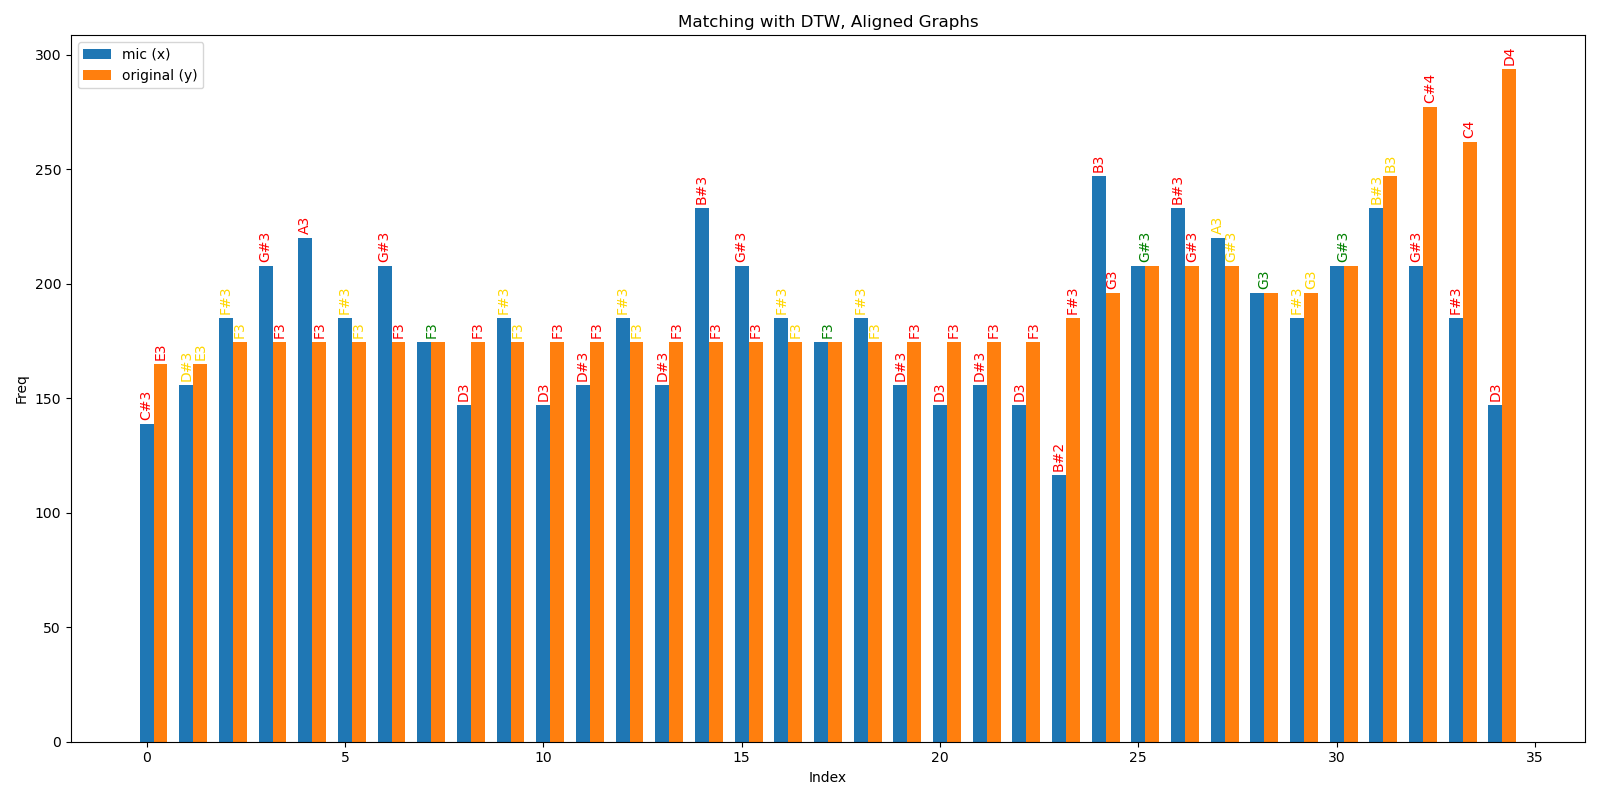
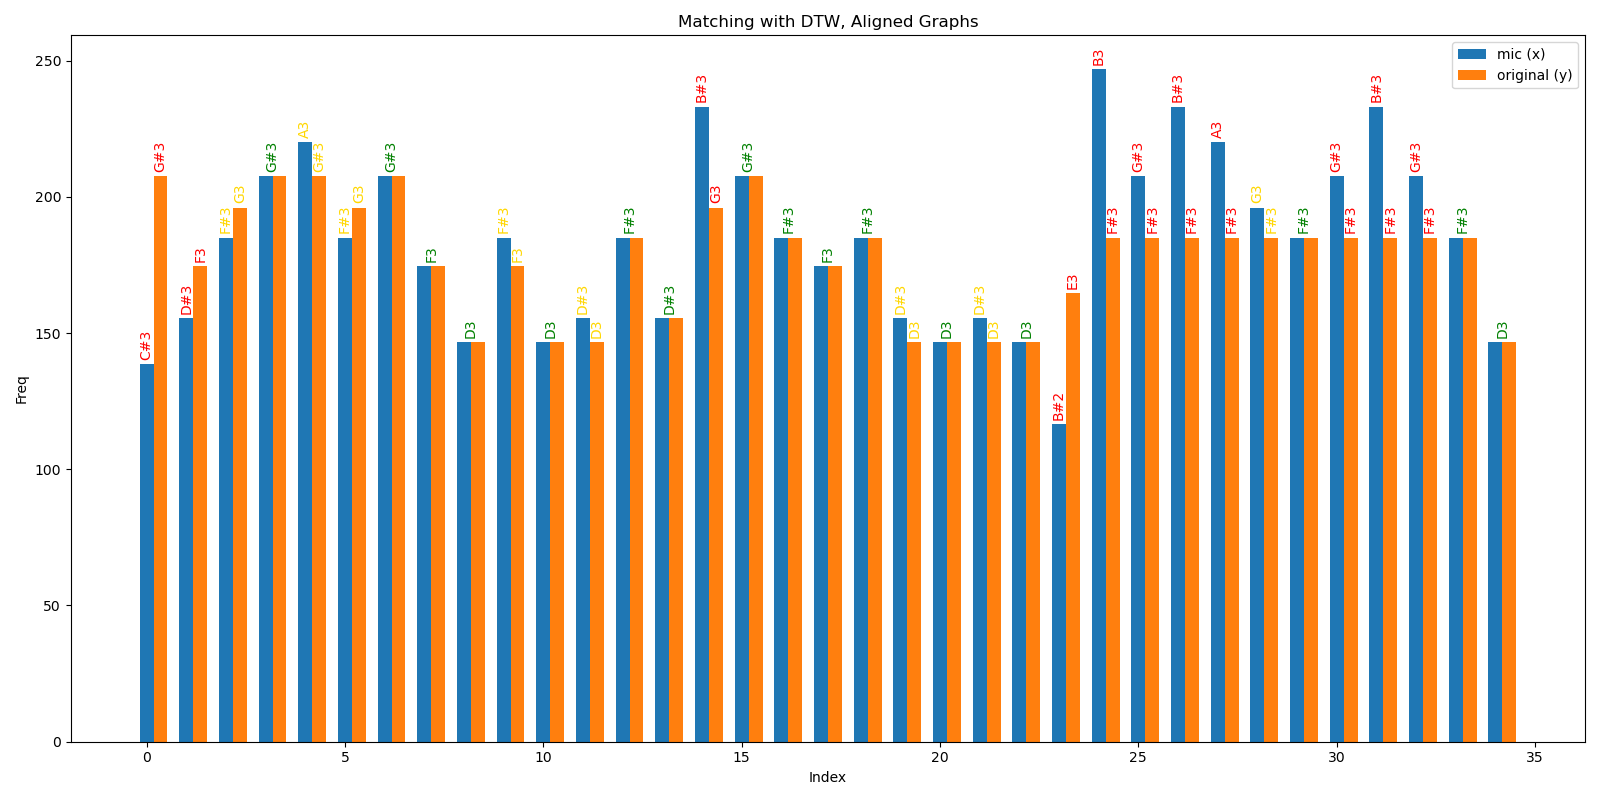
tried without success

diff --git a/compare.py b/compare.py
@@ -1,21 +1,21 @@
 import math
-from typing import List
 import numpy as np
+from fastdtw import fastdtw
 from matplotlib import pyplot as plt
 import tkinter as tk
 
 from filesAccess import *
 
-#import sklearn
-import tslearn
-from tslearn import *
-from tslearn import metrics
-#from sklearn.metrics import r2_score
-
-from tslearn.backend import instantiate_backend             #TODO Dont delete this!!
-from tslearn.backend.numpy_backend import  NumPyBackend     #TODO Dont delete this!!
-from sklearn.metrics.pairwise import euclidean_distances    #TODO Dont delete this!!
-from sklearn.metrics.pairwise import pairwise_distances     #TODO Dont delete this!!
+# #import sklearn
+# import tslearn
+# from tslearn import *
+# from tslearn import metrics
+# #from sklearn.metrics import r2_score
+#
+# from tslearn.backend import instantiate_backend             #TODO Dont delete this!!
+# from tslearn.backend.numpy_backend import  NumPyBackend     #TODO Dont delete this!!
+# from sklearn.metrics.pairwise import euclidean_distances    #TODO Dont delete this!!
+# from sklearn.metrics.pairwise import pairwise_distances     #TODO Dont delete this!!
 
 class dtwElementInfo:
     def __init__(self, x, y, xIndex, yIndex, xTime, yTime):
@@ -125,17 +125,6 @@ def are_neighbors(frequency1, frequency2):
     res2 = abs(frequency2 * math.pow(2, 1/12) - frequency1)
     return res1 < 1 or res2 < 1
 
-
-
-# # https://discord.com/channels/1183328278983999579/1184833831686111365/1186322859036000437
-# def fastDTWTest(x, y):
-#     # distance, path = fastdtw(x, y, dist=d.euclidean)
-#     distance, path = fastdtw(x, y, dist=d.cosine)
-#     print(f"Distance: {distance}")
-#     print(f"Path: {path}")
-#
-#     for (i, j) in path:
-#         print(f"{i}: {x[i]}, {j}: {y[j]}")
 
 
 # # https://discord.com/channels/1183328278983999579/1184833831686111365/1186323274964148295
@@ -344,12 +333,33 @@ def computeScore(micFreqs, origFreqs):
     return similarity
 
 
+
+# # # https://discord.com/channels/1183328278983999579/1184833831686111365/1186322859036000437
+# def fastDTWTest(x, y):
+#     # distance, path = fastdtw(x, y, dist=d.euclidean)
+#     distance, path = fastdtw(x, y)
+#     print("#####fastDTWTest")
+#     print(f"Distance: {distance}")
+#     print(f"Path: {path}")
+#
+#     for (i, j) in path:
+#         print(f"{i}: {x[i]}, {j}: {y[j]}")
+#     print("#####fastDTWTest")
+
+def fastDTW(x, y):
+    distance, path = fastdtw(x, y)
+    return path
+
+# def tslearnDTW(x, y):
+#     return tslearn.metrics.dtw_path(x, y, sakoe_chiba_radius=1)
+
+
 def lcssAndDTW(x, y, xTime, yTime, songName, newMicSOngName):
     # Do I need to normalize it? yse a scaler like the example from the link?
 
     # Calculate DTW path and similarity
-    dtw_path, sim_dtw = tslearn.metrics.dtw_path(x, y, sakoe_chiba_radius=1)
-
+    dtw_path = fastDTW(x, y)
+    #dtw_path, sim = tslearnDTW(x, y)
     # Plotting
     #plt.figure(figsize=(8, 8))
     #lcssPlot(x, y, xTime, yTime)
@@ -447,6 +457,7 @@ def compare2Songs(origSongAndTime, performanceFreqAndTime,  songName, newMicSOng
 
     x = np.array([float(curr) for curr in x])
     y = np.array([float(curr) for curr in y])
+
 
     return lcssAndDTW(x, y, xTime, yTime, songName, newMicSOngName)
 

diff --git a/setup.py b/setup.py
@@ -1,0 +1,114 @@
+from cx_Freeze import setup, Executable
+import os
+
+# Define the files and directories to be included in the build
+includefolders = [
+    'frontend/',       # Include the entire frontend directory
+    'songsData/',      # Include the entire songsData directory
+    'songsWav/',       # Include the entire songsWav directory
+    'frontend/images/',
+    # Add other necessary files or directories
+]
+# includes = [
+#     # #'tslearn.metrics.pairwise',
+#     # #'tslearn.backend.numba_backend',
+#     # #'tslearn.backend.dtypes',
+#     # 'tslearn.backend',
+#     # 'sklearn.utils',
+#     # 'sklearn.metrics',
+#     # 'sklearn.metrics.pairwise',
+#     # # 'tslearn.backend.instantiate_backend',
+#     # # 'tslearn.backend.numpy_backend.NumPyBackend',
+#     # # 'sklearn.metrics.pairwise.euclidean_distances',
+#     # # 'sklearn.metrics.pairwise.pairwise_distances'
+# ]
+
+includes = [
+    'frontend.main',
+    'frontend.MainContent',
+    'frontend.OutOfTune',
+    'frontend.Sidebar',
+    'frontend.SongComponent',
+    'frontend.SpotifyUI',
+    'frontend.VirtualPiano'
+]
+
+
+excludes = [
+    # 'sklearn.tests',
+    # 'sklearn.externals',
+    # 'tensorflow.examples',
+]
+packages = [
+    'crepe',
+    'pyaudio',
+    'pymongo',
+    'matplotlib',
+    'tensorflow',
+    'tensorflow.python',
+    'numpy',
+    'sklearn',
+    'tslearn',
+    # 'tslearn.metrics',
+    # 'tslearn.backend',
+    # 'sklearn.utils',
+    # 'sklearn.metrics',
+    # 'sklearn.metrics.pairwise',
+    'scipy',  # often required by sklearn
+    'joblib',  # used by sklearn for model persistence
+    'threadpoolctl',  # another sklearn dependency
+]
+
+# Add all individual .py files in the frontend directory
+frontend_files = [
+    'frontend/main.py',
+    'frontend/MainContent.py',
+    'frontend/OutOfTune.py',
+    'frontend/Sidebar.py',
+    'frontend/SongComponent.py',
+    'frontend/SpotifyUI.py',
+    'frontend/VirtualPiano.py'
+]
+
+backend_files = [
+    'compare.py',
+    'db_persistence_layer.py',
+    'filesAccess.py',
+    'mainTesting.py',
+]
+
+# Base can be "Win32GUI" or "Console" for Windows
+base = None  #base='Console' for console and GUI
+
+if os.name == 'nt':
+    base = 'Win32GUI'  # Use 'Console' if you have a console application
+    #base = 'Console'
+
+executables = [
+    #Executable('frontend/main.py', base=base, target_name='OutOfTuneV1')    #causes file main.py (for module main) not found, line below fixes it
+    Executable('mainTesting.py', base=base, target_name='OutOfTuneV1')
+
+]
+
+output_dir = r'C:\atestingApp\cxFreeze\V9'  # New output directory
+os.makedirs(output_dir, exist_ok=True)
+
+
+
+
+build_exe_options = {
+    'packages': packages,
+    'excludes': excludes,
+    'includes': includes,
+    'include_files': includefolders + frontend_files + backend_files,  # Include all specified files and directories
+    'build_exe': output_dir,
+    #'zip_include_packages': ['tensorflow', 'sklearn', 'scipy', 'tslearn']
+}
+
+setup(
+    name='OutOfTuneV1',
+    version='1.0',
+    description='Out Of Tune',
+    options={'build_exe': build_exe_options},
+    executables=executables,
+)

diff --git a/filesAccess.py b/filesAccess.py
@@ -8,10 +8,10 @@ import pyaudio
 
 from db_persistence_layer import *
 
-PATH = '../songsData/'       #TODO WHen running from MainContent
-WAV_PATH = '../songsWav/'    #TODO WHen running from MainContent
-#PATH = './songsData/'       #TODO WHen running from tempScreen and mainTest
-#WAV_PATH = './songsWav/'    #TODO WHen running from tempScreen and mainTest
+#PATH = '../songsData/'       #TODO WHen running from MainContent
+#WAV_PATH = '../songsWav/'    #TODO WHen running from MainContent
+PATH = './songsData/'       #TODO WHen running from tempScreen and mainTest
+WAV_PATH = './songsWav/'    #TODO WHen running from tempScreen and mainTest
 DELIMITER = ' ; '
 DICT_DELIMITER = '-'
 # SAMPLE_COUNTER_INDEX = 0

diff --git a/build/lib/mainTesting.py b/build/lib/mainTesting.py
@@ -1,0 +1,5 @@
+from frontend.SpotifyUI import SpotifyUI
+
+if __name__ == "__main__":
+    app = SpotifyUI()
+    app.mainloop()

diff --git a/mainTesting.py b/mainTesting.py
@@ -1,0 +1,5 @@
+from frontend.SpotifyUI import SpotifyUI
+
+if __name__ == "__main__":
+    app = SpotifyUI()
+    app.mainloop()
